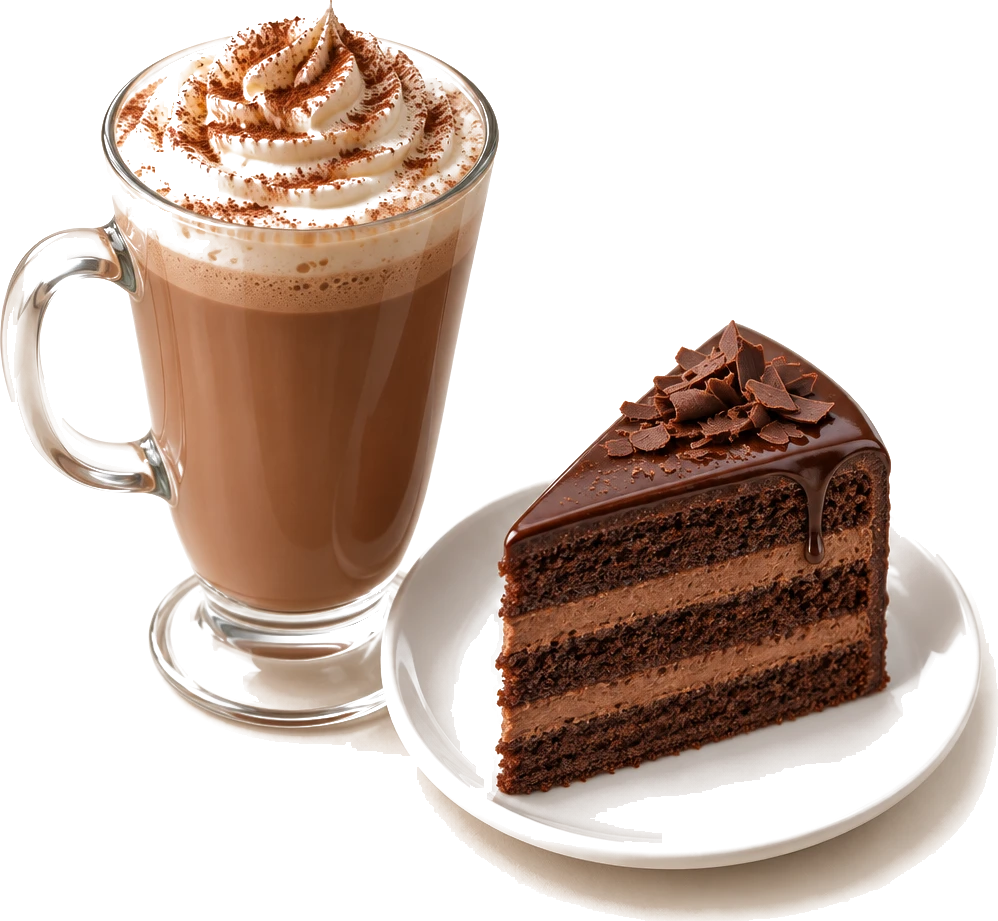
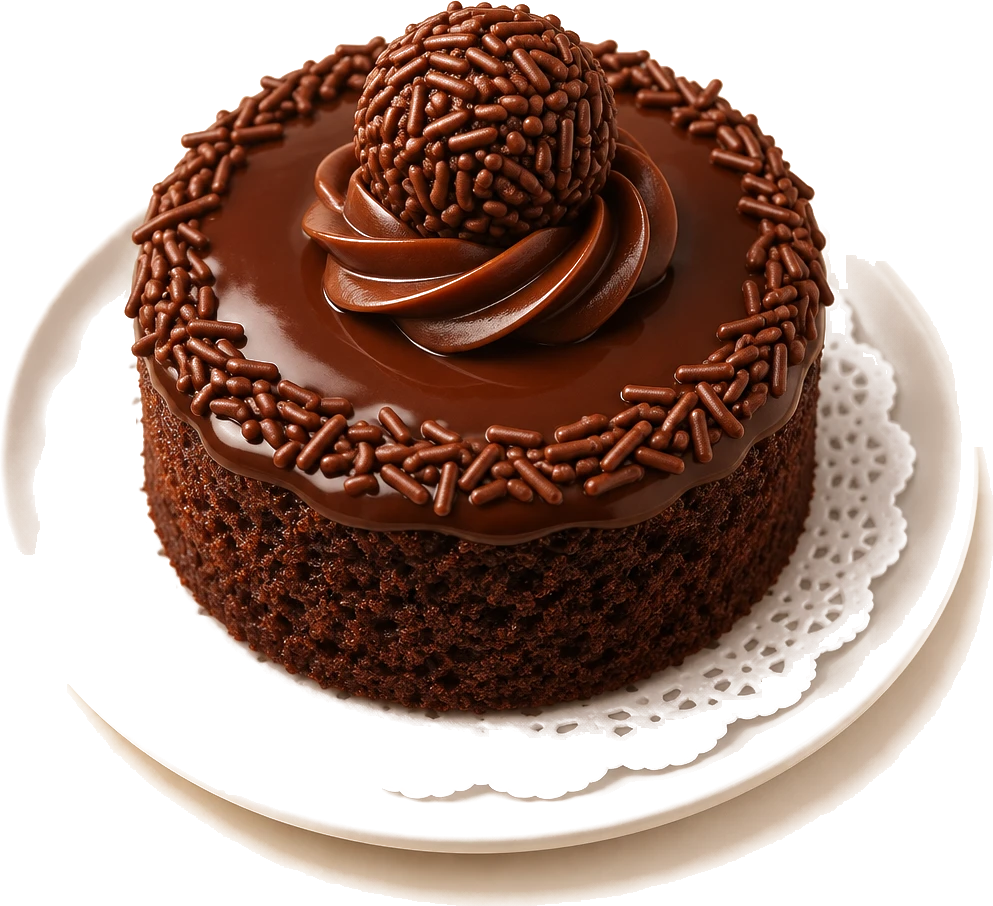
Da Praça: fotos do Instagram e cores da marca
Claude-Session: https://claude.ai/code/session_015WGjgnXPcdX1gDstbziXPZ

diff --git a/da-praca/config.js b/da-praca/config.js
@@ -8,12 +8,12 @@ window.SITE = {
   }
  },
  "theme": {
-  "bg": "#f6f1ea",
-  "ink": "#1d2a24",
-  "muted": "#5c655e",
-  "accent": "#a3322b",
-  "accent2": "#2f5a46",
-  "panel": "#ece3d6",
+  "bg": "#f7f1e6",
+  "ink": "#22301f",
+  "muted": "#5e6650",
+  "accent": "#d9772b",
+  "accent2": "#4f7a3a",
+  "panel": "#efe5d3",
   "onaccent": "#ffffff",
   "fontDisplay": "Playfair Display",
   "fontBody": "Work Sans",
@@ -25,7 +25,7 @@ window.SITE = {
    "side": "left",
    "kicker": "Praça XV · Centro de Florianópolis",
    "title": "Do café da manhã ao jantar, na Praça XV.",
-   "text": "No casarão vermelho da Felipe Schmidt. Nota 4,8 no Google com mais de 2.700 avaliações.",
+   "text": "No casarão vermelho da Felipe Schmidt, desde 2022. Nota 4,8 no Google com mais de 2.700 avaliações.",
    "state": {
     "d": [
      22,
@@ -55,8 +55,8 @@ window.SITE = {
    "id": "vitrine",
    "side": "right",
    "kicker": "A vitrine",
-   "title": "Bolos, tortas e o mocha da casa.",
-   "text": "Fatias generosas, café quente e suco natural. Tem opção vegetariana no cardápio.",
+   "title": "Doce, salgado e o mocha da casa.",
+   "text": "Bolo de brigadeiro, torta de frango, hambúrguer e café quente. Tem opção vegetariana no cardápio.",
    "state": {
     "d": [
      -22,
@@ -79,10 +79,10 @@ window.SITE = {
    },
    "hotspots": [
     {
-     "x": 30,
-     "y": 40,
-     "title": "Mocha",
-     "text": "O pedido mais citado por quem passa pela praça."
+     "x": 50,
+     "y": 30,
+     "title": "Bolo de brigadeiro",
+     "text": "Um dos doces que mais aparecem no Instagram da casa."
     }
    ]
   },
@@ -155,9 +155,9 @@ window.SITE = {
    "credit": "Foto: Google Maps · Ashfaq zada"
   },
   {
-   "src": "assets/fotos/2.webp",
-   "alt": "Salão com balcão e vitrine",
-   "credit": "Foto: Google Maps · Ashfaq zada"
+   "src": "assets/fotos/ig-brigadeiro.webp",
+   "alt": "Bolo de brigadeiro com granulado",
+   "credit": "Foto: @dapracafloripa"
   },
   {
    "src": "assets/fotos/3.webp",
@@ -165,19 +165,19 @@ window.SITE = {
    "credit": "Foto: Google Maps · João Moutinho"
   },
   {
-   "src": "assets/fotos/4.webp",
-   "alt": "Café servido na mesa da calçada",
-   "credit": "Foto: Google Maps · Alziria Alencar"
+   "src": "assets/fotos/ig-torta.webp",
+   "alt": "Torta de frango com café",
+   "credit": "Foto: @dapracafloripa"
   },
   {
-   "src": "assets/fotos/5.webp",
-   "alt": "Fatia de cheesecake de frutas vermelhas",
-   "credit": "Foto: Google Maps · Gustavo S Pires"
+   "src": "assets/fotos/ig-burger.webp",
+   "alt": "Hambúrguer da casa",
+   "credit": "Foto: @dapracafloripa"
   },
   {
-   "src": "assets/fotos/6.webp",
-   "alt": "Mesas na calçada de pedra portuguesa",
-   "credit": "Foto: Google Maps · Itinerário Urbano"
+   "src": "assets/fotos/2.webp",
+   "alt": "Salão com balcão e vitrine",
+   "credit": "Foto: Google Maps · Ashfaq zada"
   }
  ],
  "reviews": [
@@ -225,12 +225,13 @@ window.SITE = {
    "Sábado · 8h30 às 19h",
    "Domingo · 9h às 17h"
   ],
-  "phone": "(48) 99129-0222"
+  "phone": "(48) 99129-0222",
+  "instagram": "dapracafloripa"
  },
  "footer": "Prévia de site feita por Thomas · fotos da casa via Google Maps",
  "object": {
   "src": "assets/hero.webp",
-  "alt": "Mocha e fatia de bolo",
+  "alt": "Bolo de brigadeiro com granulado",
   "width": 460,
   "widthMobile": 270
  }
